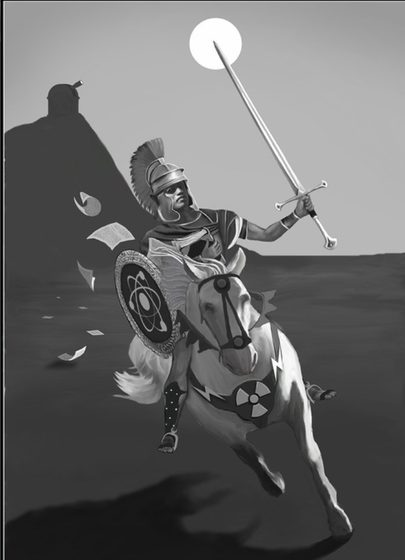
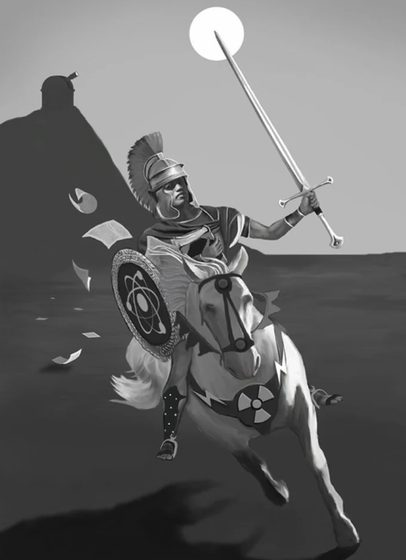
Beskär svaga vita kanter på sju illustrationer
Claude-Session: https://claude.ai/code/session_01KKpdg1kibzxrmRUHzSLNaJ

diff --git a/index.html b/index.html
@@ -100,25 +100,25 @@
 
   <section id="illustration" class="gallery-wrap" hidden>
     <div class="gallery">
-    <a class="art" href="assets/img/illu/22.webp"><picture><source type="image/webp" srcset="assets/img/illu/22-t.webp"><img src="assets/img/illu/22-t.jpg" width="405" height="560" loading="lazy" alt="Illustration av Fabler &amp; Fakta Studio"></picture></a>
-    <a class="art" href="assets/img/illu/23.webp"><picture><source type="image/webp" srcset="assets/img/illu/23-t.webp"><img src="assets/img/illu/23-t.jpg" width="404" height="560" loading="lazy" alt="Illustration av Fabler &amp; Fakta Studio"></picture></a>
+    <a class="art" href="assets/img/illu/22.webp?v=3"><picture><source type="image/webp" srcset="assets/img/illu/22-t.webp?v=3"><img src="assets/img/illu/22-t.jpg?v=3" width="405" height="560" loading="lazy" alt="Illustration av Fabler &amp; Fakta Studio"></picture></a>
+    <a class="art" href="assets/img/illu/23.webp?v=3"><picture><source type="image/webp" srcset="assets/img/illu/23-t.webp?v=3"><img src="assets/img/illu/23-t.jpg?v=3" width="404" height="560" loading="lazy" alt="Illustration av Fabler &amp; Fakta Studio"></picture></a>
     <a class="art" href="assets/img/illu/25.webp"><picture><source type="image/webp" srcset="assets/img/illu/25-t.webp"><img src="assets/img/illu/25-t.jpg" width="390" height="560" loading="lazy" alt="Illustration av Fabler &amp; Fakta Studio"></picture></a>
     <a class="art" href="assets/img/illu/24.webp"><picture><source type="image/webp" srcset="assets/img/illu/24-t.webp"><img src="assets/img/illu/24-t.jpg" width="505" height="560" loading="lazy" alt="Illustration av Fabler &amp; Fakta Studio"></picture></a>
     <a class="art" href="assets/img/illu/21.webp?v=2"><picture><source type="image/webp" srcset="assets/img/illu/21-t.webp?v=2"><img src="assets/img/illu/21-t.jpg?v=2" width="560" height="540" loading="lazy" alt="Illustration av Fabler &amp; Fakta Studio"></picture></a>
     <a class="art" href="assets/img/illu/26.webp?v=2"><picture><source type="image/webp" srcset="assets/img/illu/26-t.webp?v=2"><img src="assets/img/illu/26-t.jpg?v=2" width="560" height="554" loading="lazy" alt="Illustration av Fabler &amp; Fakta Studio"></picture></a>
-    <a class="art" href="assets/img/illu/01.webp"><picture><source type="image/webp" srcset="assets/img/illu/01-t.webp"><img src="assets/img/illu/01-t.jpg" width="353" height="560" loading="lazy" alt="Illustration av Fabler &amp; Fakta Studio"></picture></a>
+    <a class="art" href="assets/img/illu/01.webp?v=3"><picture><source type="image/webp" srcset="assets/img/illu/01-t.webp?v=3"><img src="assets/img/illu/01-t.jpg?v=3" width="353" height="560" loading="lazy" alt="Illustration av Fabler &amp; Fakta Studio"></picture></a>
     <a class="art" href="assets/img/illu/02.webp"><picture><source type="image/webp" srcset="assets/img/illu/02-t.webp"><img src="assets/img/illu/02-t.jpg" width="403" height="560" loading="lazy" alt="Illustration av Fabler &amp; Fakta Studio"></picture></a>
     <a class="art" href="assets/img/illu/03.webp"><picture><source type="image/webp" srcset="assets/img/illu/03-t.webp"><img src="assets/img/illu/03-t.jpg" width="420" height="560" loading="lazy" alt="Illustration av Fabler &amp; Fakta Studio"></picture></a>
-    <a class="art" href="assets/img/illu/04.webp"><picture><source type="image/webp" srcset="assets/img/illu/04-t.webp"><img src="assets/img/illu/04-t.jpg" width="351" height="560" loading="lazy" alt="Illustration av Fabler &amp; Fakta Studio"></picture></a>
-    <a class="art" href="assets/img/illu/05.webp"><picture><source type="image/webp" srcset="assets/img/illu/05-t.webp"><img src="assets/img/illu/05-t.jpg" width="427" height="560" loading="lazy" alt="Illustration av Fabler &amp; Fakta Studio"></picture></a>
+    <a class="art" href="assets/img/illu/04.webp?v=3"><picture><source type="image/webp" srcset="assets/img/illu/04-t.webp?v=3"><img src="assets/img/illu/04-t.jpg?v=3" width="351" height="560" loading="lazy" alt="Illustration av Fabler &amp; Fakta Studio"></picture></a>
+    <a class="art" href="assets/img/illu/05.webp?v=3"><picture><source type="image/webp" srcset="assets/img/illu/05-t.webp?v=3"><img src="assets/img/illu/05-t.jpg?v=3" width="427" height="560" loading="lazy" alt="Illustration av Fabler &amp; Fakta Studio"></picture></a>
     <a class="art" href="assets/img/illu/06.webp"><picture><source type="image/webp" srcset="assets/img/illu/06-t.webp"><img src="assets/img/illu/06-t.jpg" width="320" height="560" loading="lazy" alt="Illustration av Fabler &amp; Fakta Studio"></picture></a>
-    <a class="art" href="assets/img/illu/07.webp"><picture><source type="image/webp" srcset="assets/img/illu/07-t.webp"><img src="assets/img/illu/07-t.jpg" width="405" height="560" loading="lazy" alt="Illustration av Fabler &amp; Fakta Studio"></picture></a>
+    <a class="art" href="assets/img/illu/07.webp?v=3"><picture><source type="image/webp" srcset="assets/img/illu/07-t.webp?v=3"><img src="assets/img/illu/07-t.jpg?v=3" width="405" height="560" loading="lazy" alt="Illustration av Fabler &amp; Fakta Studio"></picture></a>
     <a class="art" href="assets/img/illu/10.webp"><picture><source type="image/webp" srcset="assets/img/illu/10-t.webp"><img src="assets/img/illu/10-t.jpg" width="387" height="560" loading="lazy" alt="Illustration av Fabler &amp; Fakta Studio"></picture></a>
     <a class="art" href="assets/img/illu/11.webp"><picture><source type="image/webp" srcset="assets/img/illu/11-t.webp"><img src="assets/img/illu/11-t.jpg" width="560" height="555" loading="lazy" alt="Illustration av Fabler &amp; Fakta Studio"></picture></a>
     <a class="art" href="assets/img/illu/12.webp"><picture><source type="image/webp" srcset="assets/img/illu/12-t.webp"><img src="assets/img/illu/12-t.jpg" width="560" height="521" loading="lazy" alt="Illustration av Fabler &amp; Fakta Studio"></picture></a>
     <a class="art" href="assets/img/illu/13.webp"><picture><source type="image/webp" srcset="assets/img/illu/13-t.webp"><img src="assets/img/illu/13-t.jpg" width="468" height="560" loading="lazy" alt="Illustration av Fabler &amp; Fakta Studio"></picture></a>
     <a class="art" href="assets/img/illu/14.webp"><picture><source type="image/webp" srcset="assets/img/illu/14-t.webp"><img src="assets/img/illu/14-t.jpg" width="560" height="477" loading="lazy" alt="Illustration av Fabler &amp; Fakta Studio"></picture></a>
-    <a class="art" href="assets/img/illu/15.webp"><picture><source type="image/webp" srcset="assets/img/illu/15-t.webp"><img src="assets/img/illu/15-t.jpg" width="547" height="560" loading="lazy" alt="Illustration av Fabler &amp; Fakta Studio"></picture></a>
+    <a class="art" href="assets/img/illu/15.webp?v=3"><picture><source type="image/webp" srcset="assets/img/illu/15-t.webp?v=3"><img src="assets/img/illu/15-t.jpg?v=3" width="547" height="560" loading="lazy" alt="Illustration av Fabler &amp; Fakta Studio"></picture></a>
     <a class="art" href="assets/img/illu/16.webp"><picture><source type="image/webp" srcset="assets/img/illu/16-t.webp"><img src="assets/img/illu/16-t.jpg" width="422" height="560" loading="lazy" alt="Illustration av Fabler &amp; Fakta Studio"></picture></a>
     <a class="art" href="assets/img/illu/17.webp"><picture><source type="image/webp" srcset="assets/img/illu/17-t.webp"><img src="assets/img/illu/17-t.jpg" width="560" height="526" loading="lazy" alt="Illustration av Fabler &amp; Fakta Studio"></picture></a>
     <a class="art" href="assets/img/illu/18.webp"><picture><source type="image/webp" srcset="assets/img/illu/18-t.webp"><img src="assets/img/illu/18-t.jpg" width="560" height="451" loading="lazy" alt="Illustration av Fabler &amp; Fakta Studio"></picture></a>
